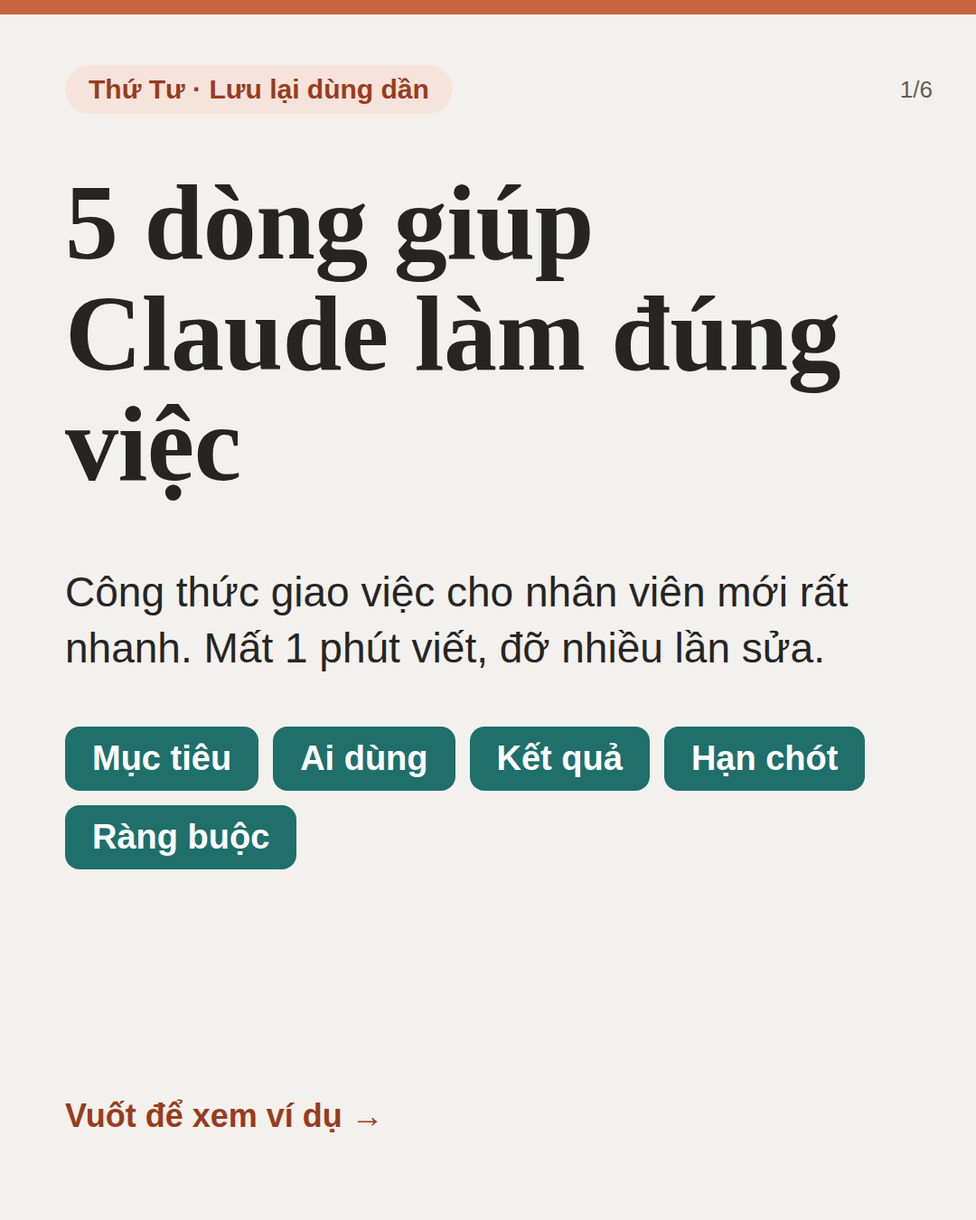
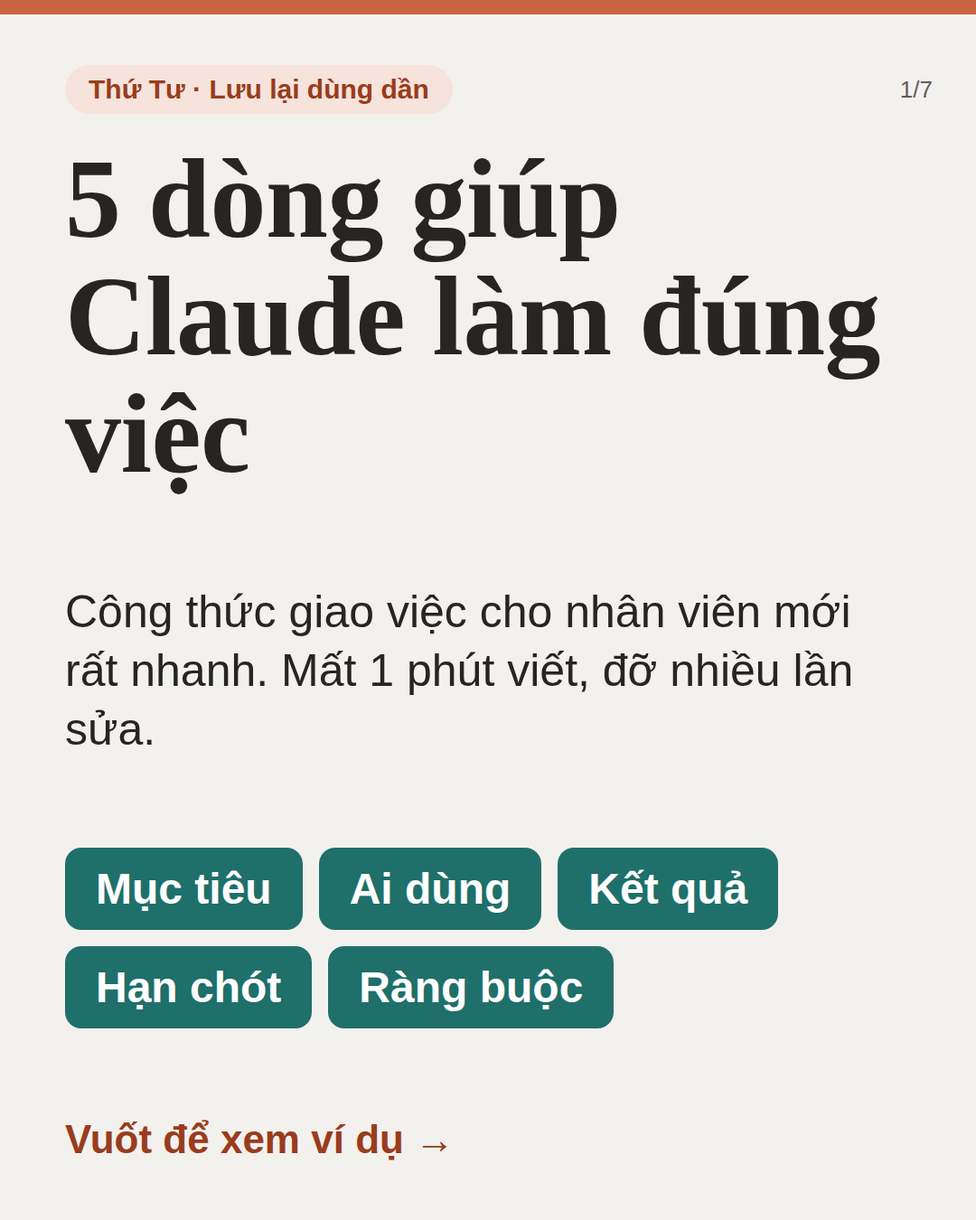
Marketing: thiết kế đang sửa vòng 1 (lưu tạm)
Claude-Session: https://claude.ai/code/session_01Kq3X1y8geurvq5mnJxo66X

Changed region(s): [[0.0611, 0.4667, 0.8861, 0.84], [0.0611, 0.1244, 0.9167, 0.4044], [0.0611, 0.9022, 0.4278, 0.9644]]

diff --git a/marketing/2026-10-03-chien-dich-facebook-1-tuan-khoa-lam-chu-claude/mau/t4-carousel-cong-thuc-5-dong.html b/marketing/2026-10-03-chien-dich-facebook-1-tuan-khoa-lam-chu-claude/mau/t4-carousel-cong-thuc-5-dong.html
@@ -1,4 +1,4 @@
-<!doctype html><html lang="vi"><head><meta charset="utf-8"><meta name="viewport" content="width=device-width,initial-scale=1"><title>T4 - Carousel công thức 5 dòng - 6 slide 1080x1350</title><style>:root{--ink:#262524;--clay:#C96442;--clayl:#F6E3DB;--clayd:#993C1D;--teal:#1F6F6B;--teall:#DDEEEC;--teald:#085041;--amb:#BA7517;--ambl:#FAEEDA;--ambd:#633806;--red:#A32D2D;--redl:#FCEBEB;--tint:#F3F1EE;--mute:#5F5E5A;--line:#D3D1C7;--bg:#FFFFFF}
+<!doctype html><html lang="vi"><head><meta charset="utf-8"><meta name="viewport" content="width=device-width,initial-scale=1"><title>T4 - Carousel công thức 5 dòng - 7 slide 1080x1350</title><style>:root{--ink:#262524;--clay:#C96442;--clayl:#F6E3DB;--clayd:#993C1D;--teal:#1F6F6B;--teall:#DDEEEC;--teald:#085041;--amb:#BA7517;--ambl:#FAEEDA;--ambd:#633806;--red:#A32D2D;--redl:#FCEBEB;--tint:#F3F1EE;--mute:#5F5E5A;--line:#D3D1C7;--bg:#FFFFFF}
 *{box-sizing:border-box}
 html,body{margin:0;background:#8a8883}
 body{font-family:"Calibri","Segoe UI","Liberation Sans","DejaVu Sans",system-ui,sans-serif;color:var(--ink)}
@@ -14,43 +14,35 @@ p{margin:0}
 .card{border-radius:28px;padding:32px 38px}
 .num{width:64px;height:64px;border-radius:50%;background:var(--clay);color:#fff;font:700 36px/64px Cambria,Georgia,"Liberation Serif",serif;text-align:center;flex:none}
 
+
+
 body{padding:24px 0}
 .slide{margin:0 auto 40px}
 .pg{position:absolute;right:48px;top:84px;font-size:26px;color:var(--mute)}
-h2{font-size:76px;line-height:1.1;margin:36px 0 36px}
-.big{font-size:118px;line-height:1.04;margin:60px 0 40px}
-.lead{font-size:46px;line-height:1.35;margin-top:30px}.mute{color:var(--mute)}
-.chips{display:flex;flex-wrap:wrap;gap:16px;margin-top:56px}
-.chips b{background:var(--teal);color:#fff;font-size:38px;padding:14px 30px;border-radius:16px}
-.swipe{margin-top:auto;font-size:36px;font-weight:700;color:var(--clayd);margin-bottom:30px}
-.ask{font-family:Cambria,Georgia,"Liberation Serif",serif;font-size:56px;line-height:1.2;font-weight:700}
-.card.bad{background:var(--redl);border-left:12px solid var(--red);padding:44px}
-.card.good{background:var(--teall);border-left:12px solid var(--teal);padding:44px}
-.rows{display:flex;flex-direction:column;gap:22px}
-.rw{display:flex;gap:30px;align-items:center;background:#fff;border-radius:24px;padding:26px 32px;border:2px solid var(--line)}
+.body{flex:1;display:flex;flex-direction:column;justify-content:space-between;gap:28px;padding-top:30px;min-height:0}
+h2{font-size:80px;line-height:1.1}
+.big{font-size:124px;line-height:1.05}
+.lead{font-size:50px;line-height:1.3}.mute{color:var(--mute)}
+.chips{display:flex;flex-wrap:wrap;gap:18px}
+.chips b{background:var(--teal);color:#fff;font-size:48px;padding:18px 34px;border-radius:18px}
+.swipe{font-size:44px;font-weight:700;color:var(--clayd)}
+.ask{font-family:Cambria,Georgia,"Liberation Serif",serif;font-size:84px;line-height:1.15;font-weight:700}
+.card.bad{background:var(--redl);border-left:14px solid var(--red);padding:56px 52px}
+.card.good{background:var(--teall);border-left:14px solid var(--teal);padding:56px 52px}
+.tri{display:flex;gap:20px}
+.tri div{flex:1;background:#fff;border:2px solid var(--line);border-radius:24px;padding:40px 22px;font-family:Cambria,Georgia,"Liberation Serif",serif;font-size:46px;font-weight:700;line-height:1.2;text-align:center;display:flex;align-items:center;justify-content:center}
+.stack{display:flex;flex-direction:column;gap:20px}
+.stack div{background:#fff;border:2px solid var(--line);border-radius:24px;padding:34px 40px;font-family:Cambria,Georgia,"Liberation Serif",serif;font-size:52px;font-weight:700}
+.lab{font-size:34px;font-weight:700;color:var(--clayd)}
+.rows{display:flex;flex-direction:column;gap:20px;flex:1}
+.rw{flex:1;display:flex;gap:30px;align-items:center;background:#fff;border-radius:24px;padding:12px 34px;border:2px solid var(--line)}
 .rw .num{width:76px;height:76px;line-height:76px;font-size:44px}
-.rt{font-family:Cambria,Georgia,"Liberation Serif",serif;font-size:50px;font-weight:700;line-height:1.15}
-.rd{font-size:34px;color:var(--mute);line-height:1.25}
-.ex .rd{font-size:30px;font-weight:700;color:var(--clayd)}.ex .rt{font-size:44px}
+.rt{font-family:Cambria,Georgia,"Liberation Serif",serif;font-size:56px;font-weight:700;line-height:1.15}
+.rd{font-size:38px;color:var(--mute);line-height:1.25}
+.ex .rd{font-size:32px;font-weight:700;color:var(--clayd)}.ex .rt{font-size:48px}
 .ex .num{background:var(--teal)}
-.cta{margin-top:70px;background:var(--clay);color:#fff;border-radius:28px;padding:48px 44px;display:flex;flex-direction:column;gap:16px}
-.lk{background:#fff;color:var(--clayd);border-radius:16px;padding:22px 34px;font-size:56px;font-weight:700;align-self:flex-start}
-.slide .foot{margin-top:auto}
-</style></head><body>
-<section class="frame f1350 slide" data-i="1"><div class="bar"></div><span class="pill">Thứ Tư · Lưu lại dùng dần</span>
-<h1 class="big">5 dòng giúp Claude làm đúng việc</h1>
-<p class="lead">Công thức giao việc cho nhân viên mới rất nhanh. Mất 1 phút viết, đỡ nhiều lần sửa.</p>
-<div class="chips"><b>Mục tiêu</b><b>Ai dùng</b><b>Kết quả</b><b>Hạn chót</b><b>Ràng buộc</b></div>
-<p class="swipe">Vuốt để xem ví dụ  →</p><div class="pg">1/6</div></section><section class="frame f1350 slide" data-i="2"><div class="bar"></div><span class="pill" style="background:var(--redl);color:var(--red)">Trước</span>
-<h2>Một dòng mơ hồ</h2>
-<div class="card bad"><div class="ask">“Làm cho tôi cái báo cáo”</div></div>
-<p class="lead">Claude phải đoán: báo cáo gì, cho ai, dài bao nhiêu.</p>
-<p class="lead mute">Nhân viên mới nào nhận câu này cũng sẽ hỏi lại hoặc làm sai ý.</p><div class="pg">2/6</div></section><section class="frame f1350 slide" data-i="3"><div class="bar"></div><span class="pill">Công thức</span><h2>5 dòng, theo thứ tự này</h2><div class="rows"><div class="rw"><div class="num">1</div><div><div class="rt">Mục tiêu</div><div class="rd">Việc cần đạt được</div></div></div><div class="rw"><div class="num">2</div><div><div class="rt">Ai dùng</div><div class="rd">Ai sẽ đọc, dùng kết quả</div></div></div><div class="rw"><div class="num">3</div><div><div class="rt">Kết quả</div><div class="rd">File Excel, email, bản báo cáo?</div></div></div><div class="rw"><div class="num">4</div><div><div class="rt">Hạn chót</div><div class="rd">Cần xong lúc nào</div></div></div><div class="rw"><div class="num">5</div><div><div class="rt">Ràng buộc</div><div class="rd">Thứ không được làm, giới hạn</div></div></div></div><div class="pg">3/6</div></section><section class="frame f1350 slide" data-i="4"><div class="bar"></div><span class="pill teal">Ví dụ điền đủ</span><h2>Cùng việc đó, viết lại</h2><div class="rows"><div class="rw ex"><div class="num">1</div><div><div class="rd">Mục tiêu</div><div class="rt">Báo cáo doanh thu tháng 8</div></div></div><div class="rw ex"><div class="num">2</div><div><div class="rd">Ai dùng</div><div class="rt">Giám đốc</div></div></div><div class="rw ex"><div class="num">3</div><div><div class="rd">Kết quả</div><div class="rt">1 bảng và 3 nhận xét</div></div></div><div class="rw ex"><div class="num">4</div><div><div class="rd">Hạn chót</div><div class="rt">Trước 5 giờ chiều</div></div></div><div class="rw ex"><div class="num">5</div><div><div class="rd">Ràng buộc</div><div class="rt">Không dùng số liệu ước đoán</div></div></div></div><div class="pg">4/6</div></section><section class="frame f1350 slide" data-i="5"><div class="bar"></div><span class="pill teal">Sau</span>
-<h2>Gộp lại thành một câu</h2>
-<div class="card good"><div class="ask" style="font-size:46px;line-height:1.28">“Lập báo cáo doanh thu tháng 8 cho giám đốc, gồm 1 bảng và 3 nhận xét, trước 5 giờ chiều, không dùng số liệu ước đoán.”</div></div>
-<p class="lead">Claude làm nhanh. Anh chị vẫn là người đọc kỹ, kiểm tra số liệu rồi mới dùng.</p><div class="pg">5/6</div></section><section class="frame f1350 slide" data-i="6"><div class="bar"></div><span class="pill">Học trọn trong khoá</span>
-<h2>Công thức này là 1 trong 100 slide</h2>
-<p class="lead">Khoá “Làm chủ Claude trong công việc”: 8 phần, có bài tập thực hành, học không cần mạng.</p>
-<div class="cta"><div class="serif" style="font-size:44px">Nhắn tin để nhận khoá</div><div class="lk">[LINK ĐĂNG KÝ]</div><div style="font-size:30px">Giá: [GIÁ] · Hạn ưu đãi: [HẠN ƯU ĐÃI]</div></div>
-<div class="foot"><b>Khoá học độc lập</b>, không phải sản phẩm chính thức của Anthropic.</div><div class="pg">6/6</div></section>
-</body></html>
+.s5 .rw{padding:6px 30px}.s5 .rt{font-size:42px}.s5 .rd{font-size:28px}.s5 .num{width:62px;height:62px;line-height:62px;font-size:36px}
+.cta{background:var(--clay);color:#fff;border-radius:28px;padding:48px 48px;font-family:Cambria,Georgia,"Liberation Serif",serif;font-size:72px;font-weight:700;line-height:1.1}
+.soft{font-size:50px;font-weight:700;line-height:1.25}
+.frame .foot{margin-top:28px}
+</style></head><body><section class="frame f1350 slide "><div class="bar"></div><span class="pill">Thứ Tư · Lưu lại dùng dần</span><div class="pg">1/7</div><div class="body"><h1 class="big">5 dòng giúp Claude làm đúng việc</h1><p class="lead">Công thức giao việc cho nhân viên mới rất nhanh. Mất 1 phút viết, đỡ nhiều lần sửa.</p><div class="chips"><b>Mục tiêu</b><b>Ai dùng</b><b>Kết quả</b><b>Hạn chót</b><b>Ràng buộc</b></div><p class="swipe">Vuốt để xem ví dụ  →</p></div></section><section class="frame f1350 slide "><div class="bar"></div><span class="pill" style="background:var(--redl);color:var(--red)">Trước</span><div class="pg">2/7</div><div class="body"><h2>Một dòng mơ hồ</h2><div class="card bad"><div class="ask">“Làm cho tôi cái báo cáo”</div></div><p class="lead">Claude phải đoán: báo cáo gì, cho ai, dài bao nhiêu.</p><div class="tri"><div>Báo cáo gì?</div><div>Cho ai?</div><div>Dài bao nhiêu?</div></div></div></section><section class="frame f1350 slide "><div class="bar"></div><span class="pill">Công thức</span><div class="pg">3/7</div><div class="body"><h2>5 dòng, theo thứ tự này</h2><div class="rows "><div class="rw"><div class="num">1</div><div><div class="rt">Mục tiêu</div><div class="rd">Việc cần đạt được</div></div></div><div class="rw"><div class="num">2</div><div><div class="rt">Ai dùng</div><div class="rd">Ai sẽ đọc kết quả</div></div></div><div class="rw"><div class="num">3</div><div><div class="rt">Kết quả</div><div class="rd">Email, bảng Excel hay báo cáo?</div></div></div><div class="rw"><div class="num">4</div><div><div class="rt">Hạn chót</div><div class="rd">Cần xong lúc nào</div></div></div><div class="rw"><div class="num">5</div><div><div class="rt">Ràng buộc</div><div class="rd">Thứ không được làm, giới hạn</div></div></div></div></div></section><section class="frame f1350 slide "><div class="bar"></div><span class="pill teal">Sau · ví dụ báo cáo</span><div class="pg">4/7</div><div class="body"><h2>Viết lại cho đủ 5 dòng</h2><div class="rows "><div class="rw ex"><div class="num">1</div><div><div class="rd">Mục tiêu</div><div class="rt">Lập báo cáo doanh thu tháng 9</div></div></div><div class="rw ex"><div class="num">2</div><div><div class="rd">Ai dùng</div><div class="rt">Giám đốc đọc</div></div></div><div class="rw ex"><div class="num">3</div><div><div class="rd">Kết quả</div><div class="rt">1 bảng và 3 nhận xét</div></div></div><div class="rw ex"><div class="num">4</div><div><div class="rd">Hạn chót</div><div class="rt">Trước 5 giờ chiều</div></div></div><div class="rw ex"><div class="num">5</div><div><div class="rd">Ràng buộc</div><div class="rt">Không dùng số liệu ước đoán</div></div></div></div><p class="lead mute">Đủ người đọc, kết quả, hạn chót, ràng buộc.</p></div></section><section class="frame f1350 slide s5"><div class="bar"></div><span class="pill teal">Sau · ví dụ tin nhắn khách</span><div class="pg">5/7</div><div class="body"><h2 style="font-size:70px">Cùng cách ấy với tin nhắn khách</h2><div class="card bad" style="padding:26px 40px"><div class="lab" style="color:var(--red);font-size:30px">TRƯỚC</div><div class="ask" style="font-size:50px">“Viết tin nhắn cho khách”</div></div><div class="rows "><div class="rw ex"><div class="num">1</div><div><div class="rd">Mục tiêu</div><div class="rt">Mời khách xin báo giá chính thức</div></div></div><div class="rw ex"><div class="num">2</div><div><div class="rd">Ai dùng</div><div class="rt">Chủ doanh nghiệp nhỏ đọc</div></div></div><div class="rw ex"><div class="num">3</div><div><div class="rd">Kết quả</div><div class="rt">1 tin Zalo ngắn</div></div></div><div class="rw ex"><div class="num">4</div><div><div class="rd">Hạn chót</div><div class="rt">Gửi trong hôm nay</div></div></div><div class="rw ex"><div class="num">5</div><div><div class="rd">Ràng buộc</div><div class="rt">Giọng lịch sự, không nêu giá</div></div></div></div><p class="lead mute" style="font-size:40px">Cùng 5 thành phần, đổi việc là dùng được.</p></div></section><section class="frame f1350 slide "><div class="bar"></div><span class="pill teal">Mẹo</span><div class="pg">6/7</div><div class="body"><h2>Chưa biết viết gì?</h2><div class="card good"><div class="ask">“Hãy hỏi tôi 3 câu trước khi làm.”</div></div><p class="lead">Để Claude hỏi lại, anh chị chỉ cần trả lời ngắn.</p><div><div class="lab" style="margin-bottom:14px">Claude có thể hỏi</div><div class="stack"><div>Mục tiêu là gì?</div><div>Ai sẽ đọc?</div><div>Cần xong khi nào?</div></div></div></div></section><section class="frame f1350 slide "><div class="bar"></div><span class="pill">Nhớ trước khi dùng</span><div class="pg">7/7</div><div class="body"><h2>Viết xong, nhớ đọc lại kết quả trước khi dùng</h2><p class="lead">Phần Cách viết yêu cầu trong khoá còn nhiều ví dụ theo từng phòng ban</p><div class="cta">Lưu bài để dùng lần sau</div><p class="soft">Muốn xem khoá, nhắn tin cho page.</p></div><div class="foot"><b>Khoá “Làm chủ Claude trong công việc”</b><br>Khoá do [ĐƠN VỊ] biên soạn, không phải sản phẩm chính thức của Anthropic.</div></section></body></html>

diff --git a/marketing/2026-10-03-chien-dich-facebook-1-tuan-khoa-lam-chu-claude/mau/ads-c.html b/marketing/2026-10-03-chien-dich-facebook-1-tuan-khoa-lam-chu-claude/mau/ads-c.html
@@ -1,0 +1,36 @@
+<!doctype html><html lang="vi"><head><meta charset="utf-8"><meta name="viewport" content="width=device-width,initial-scale=1"><title>Ads C - 1080x1080</title><style>:root{--ink:#262524;--clay:#C96442;--clayl:#F6E3DB;--clayd:#993C1D;--teal:#1F6F6B;--teall:#DDEEEC;--teald:#085041;--amb:#BA7517;--ambl:#FAEEDA;--ambd:#633806;--red:#A32D2D;--redl:#FCEBEB;--tint:#F3F1EE;--mute:#5F5E5A;--line:#D3D1C7;--bg:#FFFFFF}
+*{box-sizing:border-box}
+html,body{margin:0;background:#8a8883}
+body{font-family:"Calibri","Segoe UI","Liberation Sans","DejaVu Sans",system-ui,sans-serif;color:var(--ink)}
+h1,h2,h3,.serif{font-family:Cambria,Georgia,"Liberation Serif","DejaVu Serif",serif;font-weight:700;margin:0;letter-spacing:-.5px}
+p{margin:0}
+.frame{position:relative;width:1080px;overflow:hidden;background:var(--tint);padding:72px 72px 64px;display:flex;flex-direction:column}
+.f1350{height:1350px}.f1080{height:1080px}
+.bar{position:absolute;left:0;top:0;width:100%;height:16px;background:var(--clay)}
+.pill{display:inline-block;align-self:flex-start;font-weight:700;font-size:30px;padding:10px 26px;border-radius:40px;background:var(--clayl);color:var(--clayd)}
+.pill.teal{background:var(--teall);color:var(--teald)}
+.foot{margin-top:auto;font-size:25px;line-height:1.35;color:var(--mute);border-top:2px solid var(--line);padding-top:20px}
+.foot b{color:var(--ink)}
+.card{border-radius:28px;padding:32px 38px}
+.num{width:64px;height:64px;border-radius:50%;background:var(--clay);color:#fff;font:700 36px/64px Cambria,Georgia,"Liberation Serif",serif;text-align:center;flex:none}
+
+
+
+.frame{padding:64px}
+.body{flex:1;display:flex;flex-direction:column;justify-content:space-between;padding:28px 0 26px}
+h1{font-size:98px;line-height:1.06}
+h1 em{font-style:normal;color:var(--clayd)}
+h1 em{white-space:nowrap}
+.sub{font-size:48px;font-weight:700;line-height:1.25}
+.grid{display:flex;gap:18px}
+.grid div{flex:1;border-radius:22px;padding:34px 22px;font-size:46px;font-weight:700;line-height:1.2}
+.grid small{display:block;font-size:30px;font-weight:400;margin-top:8px}
+.h{background:var(--clayl);color:var(--clayd)}.l{background:var(--teall);color:var(--teald)}.a{background:var(--ambl);color:var(--ambd)}
+.two{display:flex;gap:18px}
+.two div{flex:1;border-radius:22px;padding:30px 28px;font-size:34px;line-height:1.25}
+.two b{display:block;font-family:Cambria,Georgia,"Liberation Serif",serif;font-size:50px;margin-bottom:6px}
+.ok{background:var(--teall);color:var(--teald);border-left:12px solid var(--teal)}.no{background:var(--redl);color:#791F1F;border-left:12px solid var(--red)}
+.ex1{background:var(--teall);border-left:12px solid var(--teal);border-radius:22px;padding:30px 32px;color:var(--teald);font-size:34px;line-height:1.3}
+.ex1 b{display:block;font-family:Cambria,Georgia,"Liberation Serif",serif;font-size:42px;line-height:1.2;color:var(--ink);margin-top:6px}
+.frame .foot{font-size:25px;padding-top:16px;margin-top:0}
+</style></head><body><div class="frame f1080" id="f"><div class="bar"></div><span class="pill">Khoá cho dân văn phòng</span><div class="body"><h1><span style="font-size:80px">Mục tiêu · Ai dùng · Kết quả · Hạn chót · <em>Ràng buộc</em></span></h1><p class="sub">Công thức 5 dòng để giao việc cho AI.</p><div class="ex1">Ví dụ viết đủ 5 dòng<b>“Lập báo cáo doanh thu tháng 9 cho giám đốc, gồm 1 bảng và 3 nhận xét, trước 5 giờ chiều, không dùng số liệu ước đoán.”</b></div></div><div class="foot"><b>Khoá “Làm chủ Claude trong công việc”</b> · 8 phần, 100 slide, có bài tập<br>Khoá do [ĐƠN VỊ] biên soạn, không phải sản phẩm chính thức của Anthropic.</div></div></body></html>

diff --git a/marketing/2026-10-03-chien-dich-facebook-1-tuan-khoa-lam-chu-claude/mau/ads-b.html b/marketing/2026-10-03-chien-dich-facebook-1-tuan-khoa-lam-chu-claude/mau/ads-b.html
@@ -1,0 +1,36 @@
+<!doctype html><html lang="vi"><head><meta charset="utf-8"><meta name="viewport" content="width=device-width,initial-scale=1"><title>Ads B - 1080x1080</title><style>:root{--ink:#262524;--clay:#C96442;--clayl:#F6E3DB;--clayd:#993C1D;--teal:#1F6F6B;--teall:#DDEEEC;--teald:#085041;--amb:#BA7517;--ambl:#FAEEDA;--ambd:#633806;--red:#A32D2D;--redl:#FCEBEB;--tint:#F3F1EE;--mute:#5F5E5A;--line:#D3D1C7;--bg:#FFFFFF}
+*{box-sizing:border-box}
+html,body{margin:0;background:#8a8883}
+body{font-family:"Calibri","Segoe UI","Liberation Sans","DejaVu Sans",system-ui,sans-serif;color:var(--ink)}
+h1,h2,h3,.serif{font-family:Cambria,Georgia,"Liberation Serif","DejaVu Serif",serif;font-weight:700;margin:0;letter-spacing:-.5px}
+p{margin:0}
+.frame{position:relative;width:1080px;overflow:hidden;background:var(--tint);padding:72px 72px 64px;display:flex;flex-direction:column}
+.f1350{height:1350px}.f1080{height:1080px}
+.bar{position:absolute;left:0;top:0;width:100%;height:16px;background:var(--clay)}
+.pill{display:inline-block;align-self:flex-start;font-weight:700;font-size:30px;padding:10px 26px;border-radius:40px;background:var(--clayl);color:var(--clayd)}
+.pill.teal{background:var(--teall);color:var(--teald)}
+.foot{margin-top:auto;font-size:25px;line-height:1.35;color:var(--mute);border-top:2px solid var(--line);padding-top:20px}
+.foot b{color:var(--ink)}
+.card{border-radius:28px;padding:32px 38px}
+.num{width:64px;height:64px;border-radius:50%;background:var(--clay);color:#fff;font:700 36px/64px Cambria,Georgia,"Liberation Serif",serif;text-align:center;flex:none}
+
+
+
+.frame{padding:64px}
+.body{flex:1;display:flex;flex-direction:column;justify-content:space-between;padding:28px 0 26px}
+h1{font-size:98px;line-height:1.06}
+h1 em{font-style:normal;color:var(--clayd)}
+h1 em{white-space:nowrap}
+.sub{font-size:48px;font-weight:700;line-height:1.25}
+.grid{display:flex;gap:18px}
+.grid div{flex:1;border-radius:22px;padding:34px 22px;font-size:46px;font-weight:700;line-height:1.2}
+.grid small{display:block;font-size:30px;font-weight:400;margin-top:8px}
+.h{background:var(--clayl);color:var(--clayd)}.l{background:var(--teall);color:var(--teald)}.a{background:var(--ambl);color:var(--ambd)}
+.two{display:flex;gap:18px}
+.two div{flex:1;border-radius:22px;padding:30px 28px;font-size:34px;line-height:1.25}
+.two b{display:block;font-family:Cambria,Georgia,"Liberation Serif",serif;font-size:50px;margin-bottom:6px}
+.ok{background:var(--teall);color:var(--teald);border-left:12px solid var(--teal)}.no{background:var(--redl);color:#791F1F;border-left:12px solid var(--red)}
+.ex1{background:var(--teall);border-left:12px solid var(--teal);border-radius:22px;padding:30px 32px;color:var(--teald);font-size:34px;line-height:1.3}
+.ex1 b{display:block;font-family:Cambria,Georgia,"Liberation Serif",serif;font-size:42px;line-height:1.2;color:var(--ink);margin-top:6px}
+.frame .foot{font-size:25px;padding-top:16px;margin-top:0}
+</style></head><body><div class="frame f1080" id="f"><div class="bar"></div><span class="pill">Khoá cho dân văn phòng</span><div class="body"><h1>Không chắc thì <em>Từ chối</em></h1><p class="sub">Từ chối không làm hỏng gì.</p><div class="two"><div class="ok"><b>Cho phép khi</b>đúng việc anh chị giao và hiểu Claude định làm gì</div><div class="no"><b>Từ chối khi</b>không hiểu, không chắc, hoặc thấy việc lạ</div></div></div><div class="foot"><b>Khoá “Làm chủ Claude trong công việc”</b> · 8 phần, 100 slide, có bài tập<br>Khoá do [ĐƠN VỊ] biên soạn, không phải sản phẩm chính thức của Anthropic.</div></div></body></html>

diff --git a/marketing/2026-10-03-chien-dich-facebook-1-tuan-khoa-lam-chu-claude/mau/ads-a.html b/marketing/2026-10-03-chien-dich-facebook-1-tuan-khoa-lam-chu-claude/mau/ads-a.html
@@ -1,0 +1,36 @@
+<!doctype html><html lang="vi"><head><meta charset="utf-8"><meta name="viewport" content="width=device-width,initial-scale=1"><title>Ads A - 1080x1080</title><style>:root{--ink:#262524;--clay:#C96442;--clayl:#F6E3DB;--clayd:#993C1D;--teal:#1F6F6B;--teall:#DDEEEC;--teald:#085041;--amb:#BA7517;--ambl:#FAEEDA;--ambd:#633806;--red:#A32D2D;--redl:#FCEBEB;--tint:#F3F1EE;--mute:#5F5E5A;--line:#D3D1C7;--bg:#FFFFFF}
+*{box-sizing:border-box}
+html,body{margin:0;background:#8a8883}
+body{font-family:"Calibri","Segoe UI","Liberation Sans","DejaVu Sans",system-ui,sans-serif;color:var(--ink)}
+h1,h2,h3,.serif{font-family:Cambria,Georgia,"Liberation Serif","DejaVu Serif",serif;font-weight:700;margin:0;letter-spacing:-.5px}
+p{margin:0}
+.frame{position:relative;width:1080px;overflow:hidden;background:var(--tint);padding:72px 72px 64px;display:flex;flex-direction:column}
+.f1350{height:1350px}.f1080{height:1080px}
+.bar{position:absolute;left:0;top:0;width:100%;height:16px;background:var(--clay)}
+.pill{display:inline-block;align-self:flex-start;font-weight:700;font-size:30px;padding:10px 26px;border-radius:40px;background:var(--clayl);color:var(--clayd)}
+.pill.teal{background:var(--teall);color:var(--teald)}
+.foot{margin-top:auto;font-size:25px;line-height:1.35;color:var(--mute);border-top:2px solid var(--line);padding-top:20px}
+.foot b{color:var(--ink)}
+.card{border-radius:28px;padding:32px 38px}
+.num{width:64px;height:64px;border-radius:50%;background:var(--clay);color:#fff;font:700 36px/64px Cambria,Georgia,"Liberation Serif",serif;text-align:center;flex:none}
+
+
+
+.frame{padding:64px}
+.body{flex:1;display:flex;flex-direction:column;justify-content:space-between;padding:28px 0 26px}
+h1{font-size:98px;line-height:1.06}
+h1 em{font-style:normal;color:var(--clayd)}
+h1 em{white-space:nowrap}
+.sub{font-size:48px;font-weight:700;line-height:1.25}
+.grid{display:flex;gap:18px}
+.grid div{flex:1;border-radius:22px;padding:34px 22px;font-size:46px;font-weight:700;line-height:1.2}
+.grid small{display:block;font-size:30px;font-weight:400;margin-top:8px}
+.h{background:var(--clayl);color:var(--clayd)}.l{background:var(--teall);color:var(--teald)}.a{background:var(--ambl);color:var(--ambd)}
+.two{display:flex;gap:18px}
+.two div{flex:1;border-radius:22px;padding:30px 28px;font-size:34px;line-height:1.25}
+.two b{display:block;font-family:Cambria,Georgia,"Liberation Serif",serif;font-size:50px;margin-bottom:6px}
+.ok{background:var(--teall);color:var(--teald);border-left:12px solid var(--teal)}.no{background:var(--redl);color:#791F1F;border-left:12px solid var(--red)}
+.ex1{background:var(--teall);border-left:12px solid var(--teal);border-radius:22px;padding:30px 32px;color:var(--teald);font-size:34px;line-height:1.3}
+.ex1 b{display:block;font-family:Cambria,Georgia,"Liberation Serif",serif;font-size:42px;line-height:1.2;color:var(--ink);margin-top:6px}
+.frame .foot{font-size:25px;padding-top:16px;margin-top:0}
+</style></head><body><div class="frame f1080" id="f"><div class="bar"></div><span class="pill">Khoá cho dân văn phòng</span><div class="body"><h1>Claude: nhân viên mới <em>rất nhanh</em></h1><p class="sub">Giao việc rõ, kiểm tra kỹ.</p><div class="grid"><div class="h">Hiểu<small>Claude và từng nút</small></div><div class="l">Làm<small>Công thức 5 dòng</small></div><div class="a">An toàn<small>Cho phép hay Từ chối</small></div></div></div><div class="foot"><b>Khoá “Làm chủ Claude trong công việc”</b> · 8 phần, 100 slide, có bài tập<br>Khoá do [ĐƠN VỊ] biên soạn, không phải sản phẩm chính thức của Anthropic.</div></div></body></html>

diff --git a/marketing/2026-10-03-chien-dich-facebook-1-tuan-khoa-lam-chu-claude/mau/t2-mo-man.html b/marketing/2026-10-03-chien-dich-facebook-1-tuan-khoa-lam-chu-claude/mau/t2-mo-man.html
@@ -31,8 +31,8 @@ h1 em{font-style:normal;color:var(--clayd)}
 <h1>Dùng AI vẫn mệt? Hãy giao việc như với <em>nhân viên mới.</em></h1>
 <div class="pair">
  <div class="card bad"><div class="tag">GIAO VIỆC MƠ HỒ</div><div class="ask">“Làm cho tôi cái báo cáo”</div><div class="res">Claude phải đoán: báo cáo gì, cho ai, dài bao nhiêu.</div></div>
- <div class="card good"><div class="tag">GIAO VIỆC RÕ</div><div class="ask">“Lập báo cáo doanh thu tháng 8 cho giám đốc, gồm 1 bảng và 3 nhận xét.”</div><div class="res">Đủ ý để làm đúng hơn ngay lần đầu.</div></div>
+ <div class="card good"><div class="tag">GIAO VIỆC RÕ</div><div class="ask">“Lập báo cáo doanh thu tháng 9 cho giám đốc, gồm 1 bảng và 3 nhận xét.”</div><div class="res">Đủ ý để làm đúng hơn ngay lần đầu.</div></div>
 </div>
 <p class="line">Claude là nhân viên mới <span>rất nhanh.</span><br>Giao việc rõ, kiểm tra kỹ.</p>
-<div class="foot"><b>Khoá "Làm chủ Claude trong công việc"</b><br>Khoá học độc lập, không phải sản phẩm chính thức của Anthropic.</div>
+<div class="foot"><b>Khoá “Làm chủ Claude trong công việc”</b><br>Khoá do [ĐƠN VỊ] biên soạn, không phải sản phẩm chính thức của Anthropic.</div>
 </div></body></html>
